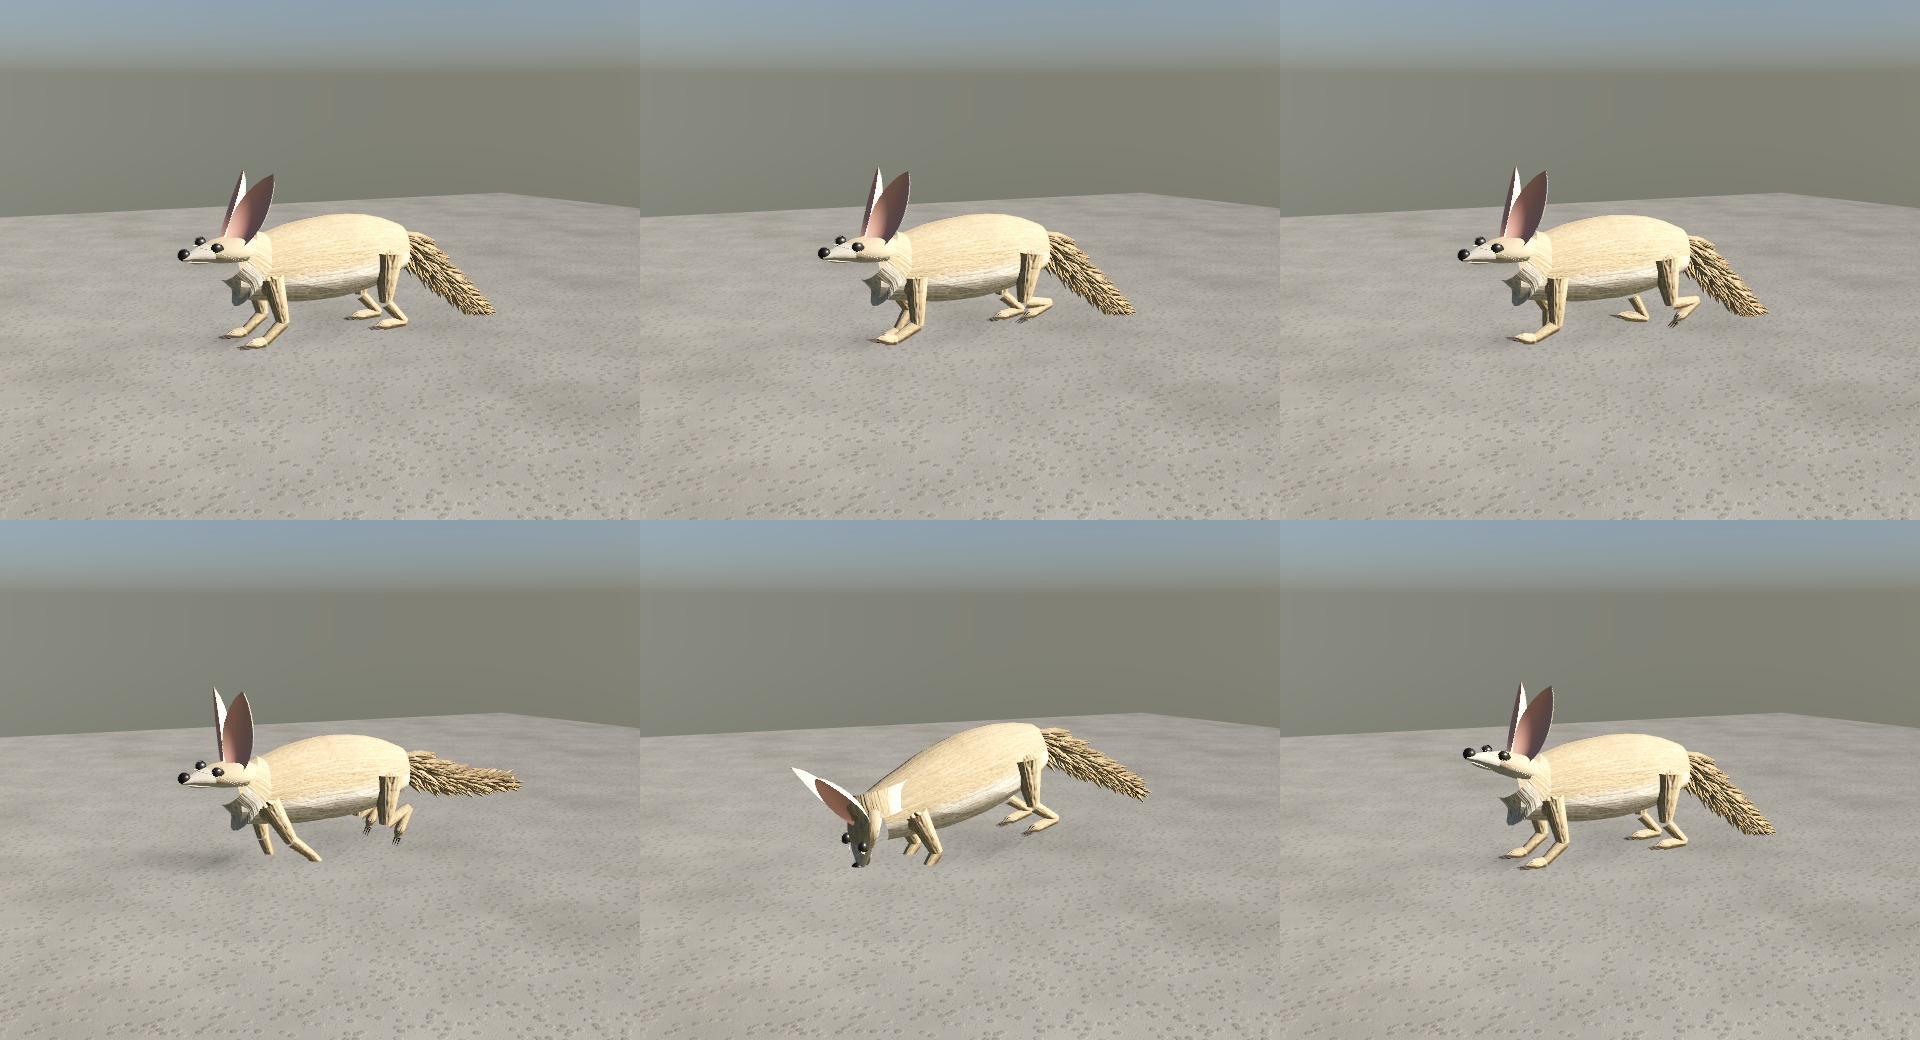
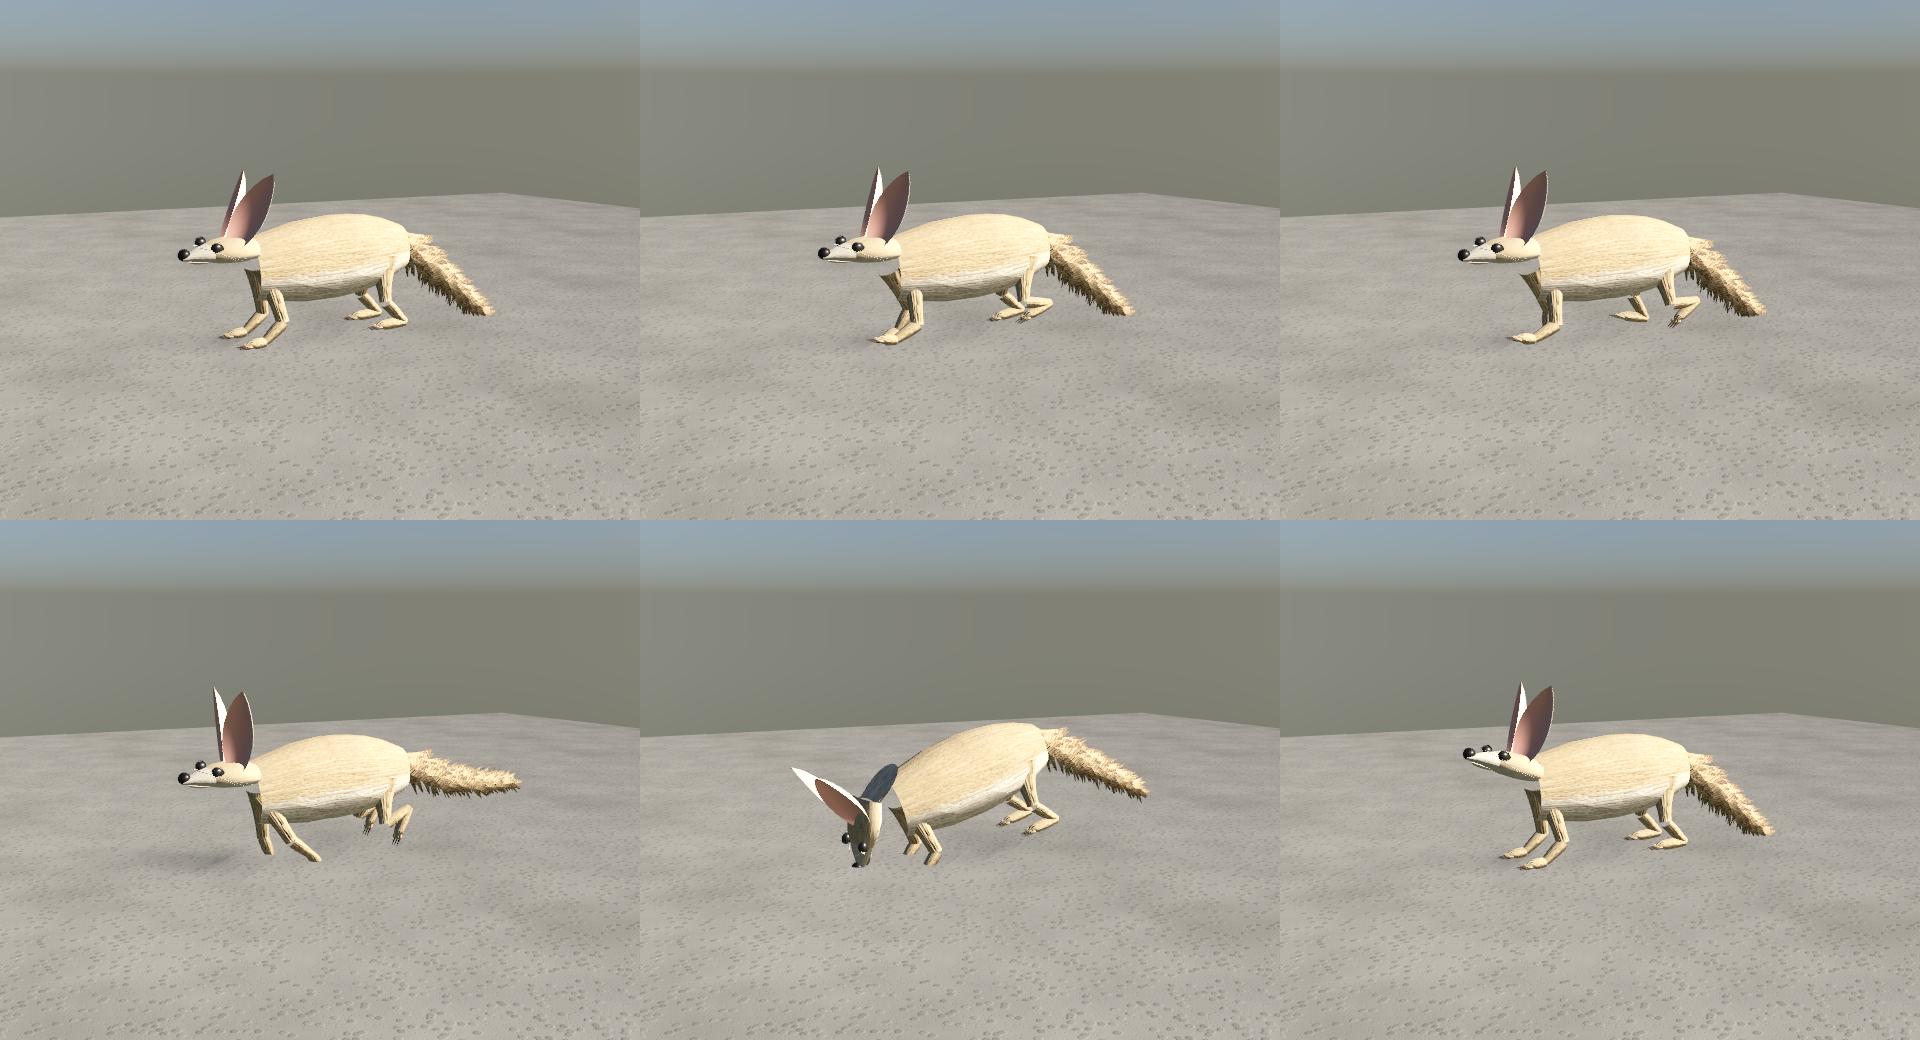
Pets pass 2: blended neck loft, round squirrel head, tapered legs with toes, two-sided tail cards

diff --git a/Sources/AnimalCore/Anatomy/GroundRigBuilder.swift b/Sources/AnimalCore/Anatomy/GroundRigBuilder.swift
@@ -50,7 +50,8 @@ struct GroundFrame {
         if a.headShape == nil { return headCenter + V3(s.sign * 0.5 * a.headWidth * 0.8, 0.12 * a.headHeight, -0.12 * a.headLength) }
         let t: Float = 0.42
         let hw = 0.5 * a.headWidth * headProfile(t)
-        return headCenter + V3(s.sign * hw * 0.9, 0.14 * a.headHeight, (0.5 - t) * a.headLength)
+        let up: Float = p.species == .easternGraySquirrel ? 0.26 : 0.14
+        return headCenter + V3(s.sign * hw * (p.species == .easternGraySquirrel ? 0.84 : 0.9), up * a.headHeight, (0.5 - t) * a.headLength)
     }
     var rump: V3 { C - A * (0.5 * a.bodyLength) + U * (0.1 * a.bodyDepth) }
 }
@@ -192,7 +193,7 @@ public enum GroundRigBuilder {
             rig.base[0].add(dome(0.5, 1.02))
             rig.add(dome(-0.02, 0.52), to: GroundJoint.spine.name)
         } else if plan == nil {
-            rig.base[0].add(lofted(0.46, 1, bodySecs, material: fur))
+            rig.base[0].add(lofted(0.46, small ? 0.9 : 1, bodySecs, material: fur))
             if a.rumpPatch > 0 {
                 let rp = a.rumpPatch
                 rig.add(lofted(0, rp, 5, material: f.mat(.rump)), to: GroundJoint.spine.name)
@@ -255,8 +256,29 @@ public enum GroundRigBuilder {
                 return LoftSection(center: c, right: simd_normalize(simd_cross(fw, u)), up: u, halfWidth: w, halfDorsal: hd, halfVentral: hv, exponent: 2.1)
             }
         }
+        if small {
+            // One continuous surface from the chest into the skull: sections blend from the torso's
+            // front section to the head's rear section, no cap or seam at the shoulder.
+            let s0 = section(0.9)
+            let hr = f.headProfile(0), kHs: Float = a.headShape == nil ? 0.5 : 1.0
+            let hc0 = f.headCenter + V3(0, 0, 0.5 * a.headLength)
+            let s1 = LoftSection(center: hc0, right: GroundFrame.X, up: GroundFrame.Y, halfWidth: 0.5 * a.headWidth * hr,
+                                 halfDorsal: kHs * a.headHeight * 0.55 * hr, halfVentral: kHs * a.headHeight * 0.45 * hr, exponent: 2.2)
+            let mid = lerp(s0.center, s1.center, 0.5) + f.U * (0.06 * a.bodyDepth)
+            var secs: [LoftSection] = []
+            for i in 0..<9 {
+                let t = Float(i) / 8, k = t * t * (3 - 2 * t)
+                let c = (1 - t) * (1 - t) * s0.center + 2 * (1 - t) * t * mid + t * t * s1.center
+                let up = simd_normalize(lerp(s0.up, s1.up, k))
+                let narrow: Float = 1 - 0.12 * sin(.pi * t)
+                secs.append(LoftSection(center: c, right: GroundFrame.X, up: up, halfWidth: lerp(s0.halfWidth, s1.halfWidth, k) * narrow,
+                                        halfDorsal: lerp(s0.halfDorsal, s1.halfDorsal, k) * narrow, halfVentral: lerp(s0.halfVentral, s1.halfVentral, k) * narrow,
+                                        exponent: lerp(s0.exponent, s1.exponent, k)))
+            }
+            rig.add(Loft.build(secs, segments: 20, vRange: 0.9...1.0, material: fur), to: GroundJoint.neckPitch.name)
+        }
         let iT = a.throatFrom < 1 && !small ? max(2, min(NN - 3, Int(a.throatFrom * Float(NN - 1)))) : NN - 1
-        rig.add(Loft.build(neckSecs(0, iT), segments: 20, vRange: 0.9...1.0, material: limbFur), to: GroundJoint.neckPitch.name)
+        if !small { rig.add(Loft.build(neckSecs(0, iT), segments: 20, vRange: 0.9...1.0, material: limbFur), to: GroundJoint.neckPitch.name) }
         if iT < NN - 1 {
             rig.add(Loft.build(neckSecs(iT, NN - 1), segments: 20, vRange: 0.9...1.0, material: f.mat(.throat)), to: GroundJoint.neckPitch.name)
         }
@@ -400,8 +422,25 @@ public enum GroundRigBuilder {
                     let b = lerp(p0, p1, tt) + radial * (w * 0.3)
                     let L = w * (0.8 + 0.5 * rng.next01())
                     let d = simd_normalize(radial + ax * 0.9)
-                    let pts = [b, b + d * (0.5 * L) + radial * (0.08 * L), b + d * L + ax * (0.2 * L)]
-                    rig.add(Prim.tube(pts, radii: [w * 0.24, w * 0.18, 0.0004], sides: 4, seamTile: 0.02, material: p.species == .easternGraySquirrel ? fur : tailMaterial()), to: partName)
+                    // Flat card, two-sided, normals bent outward from the tail axis; u runs coat to pale tip.
+                    let across = simd_normalize(simd_cross(d, radial)) * (w * 0.32)
+                    var card = Surface(material: tailMaterial())
+                    let n = simd_normalize(radial * 0.8 + d * 0.2)
+                    for side in [Float(1), -1] {
+                        let o = UInt32(card.vertexCount)
+                        for r in 0..<3 {
+                            let q = Float(r) / 2, wq = 1 - 0.85 * q
+                            let c = b + d * (L * q) + radial * (0.1 * L * q * q)
+                            _ = card.add(c - across * wq, n, V2(0.04 + 0.13 * q, 0.5))
+                            _ = card.add(c + across * wq, n, V2(0.05 + 0.13 * q, 0.5))
+                        }
+                        for r in 0..<2 {
+                            let a0 = o + UInt32(r * 2)
+                            if side > 0 { card.quad(a0, a0 + 1, a0 + 3, a0 + 2) } else { card.quad(a0, a0 + 2, a0 + 3, a0 + 1) }
+                        }
+                    }
+                    card.computeTangents()
+                    rig.add(card, to: partName)
                 }
             }
         }
@@ -419,15 +458,17 @@ public enum GroundRigBuilder {
             let kneeR: Float = a.digitigrade ? r * (l.isFore ? 1.3 : max(1.1, a.thighScale)) : r * 1.05
             let shankEnd: Float = a.digitigrade ? r * (l.isFore ? 0.85 : 1.0) : r * 0.8
             func leg(_ pts: [V3], _ radii: [Float], vr: ClosedRange<Float>) -> Surface {
-                Loft.along(pts, up: GroundFrame.X, count: 6, segments: 12, vRange: vr, exponent: 2, material: limbFur, radius: { t in
-                    let r = lerp(radii[0], radii[1], t); return V3(r, r, r)
+                Loft.along(pts, up: GroundFrame.X, count: small ? 8 : 6, segments: small ? 16 : 12, vRange: vr, exponent: 2, material: limbFur, radius: { t in
+                    // Small mammals: smooth taper with a calf swell, slightly deeper than wide.
+                    let k = small ? t * t * (3 - 2 * t) : t
+                    let r = lerp(radii[0], radii[1], k) * (small ? 1 + 0.12 * sin(.pi * t) : 1); return small ? V3(r * 0.9, r * 1.08, r * 1.08) : V3(r, r, r)
                 }, uv: { u, v in V2(legU + 0.05 * cos(u * 2 * .pi), 0.3 + 0.3 * v) })
             }
-            rig.add(Loft.along([c.hip + (small ? f.U * (0.22 * a.bodyDepth) : V3(0, 0.004, 0)), c.knee], up: GroundFrame.X, count: 6, segments: 12, vRange: 0...0.5, exponent: 2, material: fur, radius: { t in let r = lerp(thighR, kneeR, t); return V3(r, r, r) }, uv: { u, v in V2(legU + 0.05 * cos(u * 2 * .pi), 0.3 + 0.3 * v) }), to: GroundJoint.leg(l, .hip).name)
+            rig.add(Loft.along([c.hip + (small ? f.U * ((l.isFore ? 0.3 : 0.12) * a.bodyDepth) - V3(c.hip.x * 0.55, 0, 0) : V3(0, 0.004, 0)), c.knee], up: GroundFrame.X, count: small ? 8 : 6, segments: small ? 16 : 12, vRange: 0...0.5, exponent: 2, material: fur, radius: { t in let k = small ? 1 - pow(1 - t, 2) : t; let r = lerp(thighR * (small ? 1.15 : 1), kneeR, k); return V3(r, r, r) }, uv: { u, v in V2(legU + 0.05 * cos(u * 2 * .pi), 0.3 + 0.3 * v) }), to: GroundJoint.leg(l, .hip).name)
             rig.add(leg([c.knee, c.ankle], [kneeR, shankEnd], vr: 0.5...1), to: GroundJoint.leg(l, .knee).name)
             rig.add(leg([c.ankle, c.toe], [r * 0.85, r * 0.9], vr: 0.5...1), to: GroundJoint.leg(l, .ankle).name)
             let ankle = GroundJoint.leg(l, .ankle).name
-            if a.digitigrade || a.thighScale > 1.3 || small {
+            if a.digitigrade || a.thighScale > 1.3 {
                 // Shoulder and haunch muscle mass hanging from the hip joint.
                 let up = c.knee - c.hip, len = simd_length(up)
                 let mid = small ? lerp(c.hip, c.knee, 0.1) + f.U * (0.16 * a.bodyDepth) - V3(l.side.sign * thighR * 0.45, 0, 0) : lerp(c.hip, c.knee, l.isFore ? 0.3 : 0.4)
@@ -448,6 +489,15 @@ public enum GroundRigBuilder {
                 rig.add(Loft.ellipsoid(center: pc, axis: V3(0, 0, -1), up: GroundFrame.Y, radii: V3(r * 1.1, r * 0.7, r * 1.7), rings: 5, segments: 8, material: limbFur,
                                        uv: { u, v in V2(legU + 0.04 * cos(u * 2 * .pi), 0.45) }), to: ankle)
                 let n = a.clawScale > 2 ? 4 : 3
+                if small {
+                    // Rounded toes fanned at the front of the paw.
+                    for k in 0..<4 {
+                        let off = (Float(k) - 1.5) * r * 0.62
+                        let tc = pc + V3(off, -r * 0.15, -r * (1.45 - 0.12 * abs(Float(k) - 1.5)))
+                        rig.add(Loft.ellipsoid(center: tc, axis: V3(off * 8, 0, -1), up: GroundFrame.Y, radii: V3(r * 0.3, r * 0.26, r * 0.5), rings: 5, segments: 8, material: limbFur,
+                                               uv: { u, v in V2(legU + 0.03 * cos(u * 2 * .pi), 0.45) }), to: ankle)
+                    }
+                }
                 for k in 0..<n {
                     let off = (Float(k) - Float(n - 1) / 2) * r * 0.7
                     let cl = pc + V3(off, -r * 0.3, -r * 1.4)

diff --git a/Sources/AnimalCore/Species/GroundSpecies.swift b/Sources/AnimalCore/Species/GroundSpecies.swift
@@ -198,16 +198,21 @@ extension GroundProfile {
                                  activity: [.dawn: 1.4, .day: 0.6, .dusk: 1.4, .night: 0.15],
                                  likes: [.openGround: 1, .shrub: 0.9, .flowers: 0.6, .seedPlants: 0.5], minHabitat: 0.18, alertRate: 0.25))
 
-    static let squirrel = GroundProfile(
+    static let squirrel: GroundProfile = {
+        var p = GroundProfile(
         species: .easternGraySquirrel, name: "Eastern Gray Squirrel", latin: "Sciurus carolinensis",
         blurb: "Bold and acrobatic. Buries nuts, raids feeders and runs up any tree or fence.",
-        anatomy: GroundAnatomy(bodyLength: 0.21, bodyDepth: 0.1, bodyWidth: 0.085, headLength: 0.07, headWidth: 0.05, headHeight: 0.054, snout: 0.02,
-                               earLength: 0.028, earWidth: 0.02, tailLength: 0.21, tailWidth: 0.075, foreLeg: 0.07, hindLeg: 0.085, legRadius: 0.009, pitch: 8, eyeRadius: 0.0065),
+        anatomy: GroundAnatomy(bodyLength: 0.21, bodyDepth: 0.1, bodyWidth: 0.085, headLength: 0.058, headWidth: 0.05, headHeight: 0.05, snout: 0.02,
+                               earLength: 0.028, earWidth: 0.02, tailLength: 0.21, tailWidth: 0.075, foreLeg: 0.07, hindLeg: 0.085, legRadius: 0.009, pitch: 8, eyeRadius: 0.0078),
         palette: GroundPalette(back: 0x8D8C88, belly: 0xE8E4DC, accent: 0xC9C8C2, ear: 0x8D8C88, nose: 0x5E4A44, eye: 0x120E0C, claw: 0x3A332E, tail: 0x8A8985,
                                tailTip: 0xD2D0CA, face: 0x9A9894, flankLine: 0.6, pattern: 0.35, strands: 90),
         behavior: GroundBehavior(gait: .bound, walk: 0.7, run: 4.5, climbs: true, boldness: 0.8, skittishRadius: 1.2, rarity: 0.15, seasons: allSeasons,
                                  activity: [.dawn: 1, .day: 1.2, .dusk: 0.9, .night: 0],
                                  likes: [.tree: 1, .feeder: 0.9, .openGround: 0.5, .seedPlants: 0.4, .perch: 0.5], minHabitat: 0.15, alertRate: 0.35))
+        // Round cranium, short blunt muzzle.
+        p.anatomy.headShape = [0.84, 1.0, 1.0, 0.92, 0.78, 0.6, 0.44, 0.3]
+        return p
+    }()
 
     static let chipmunk = GroundProfile(
         species: .easternChipmunk, name: "Eastern Chipmunk", latin: "Tamias striatus",

diff --git a/notes/visual-log.md b/notes/visual-log.md
@@ -44,3 +44,17 @@ Iter 4. Issues: haunches still read as separate blobs, squirrel tail cards dark.
 Fixes: haunch at 0.1 along thigh, inset by 0.45 thigh radius; squirrel cards on body coat.
 Open: squirrel tail cards still shade dark (thin tube normals); legs remain tubes below the knee;
 head and body still separate parts per joint (no single skinned loft).
+
+## Pets realism pass 2 (squirrel)
+
+Rig has rigid parts only (no joint weights in RealCore.Rig / RealKit upload), so the body is one
+continuous rest-pose surface split at joints, not a linear-blend skin.
+Iter 1. Fixes: chest-to-skull blend loft (9 sections, torso front section to head rear section) replaces
+torso cap + neck tube; squirrel headShape [0.84 1 1 0.92 0.78 0.6 0.44 0.3], head 0.058 m, eye 0.0078 m
+set at 0.26 head height; legs smooth-tapered with calf swell, 4 rounded toes per paw; tail fur as flat
+two-sided cards. Issues seen: tail pure white, back faces near black, thigh tops open and boot-like.
+Iter 2. Fixes: card normals = outward radial on both faces, card u 0.04 to 0.17 (coat root, pale tip);
+thigh starts inside the body. Issues: thighs poke above the body, haunch ellipsoids read as bulbs.
+Iter 3. Fixes: thigh root inset 55% toward midline, haunch ellipsoids off for small mammals.
+Iter 4. Fixes: hind thigh root lowered to 0.12 body depth.
+Open: dark spikes at the tail's upper edge, leg coat streaks, body strand streaks at 640 px.
